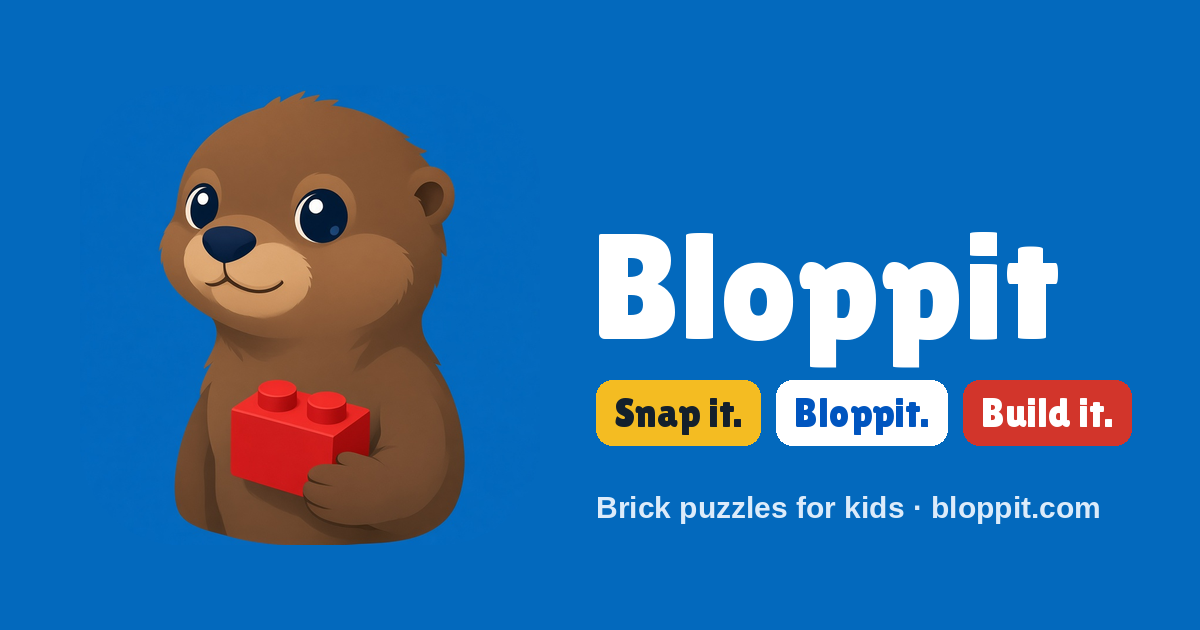
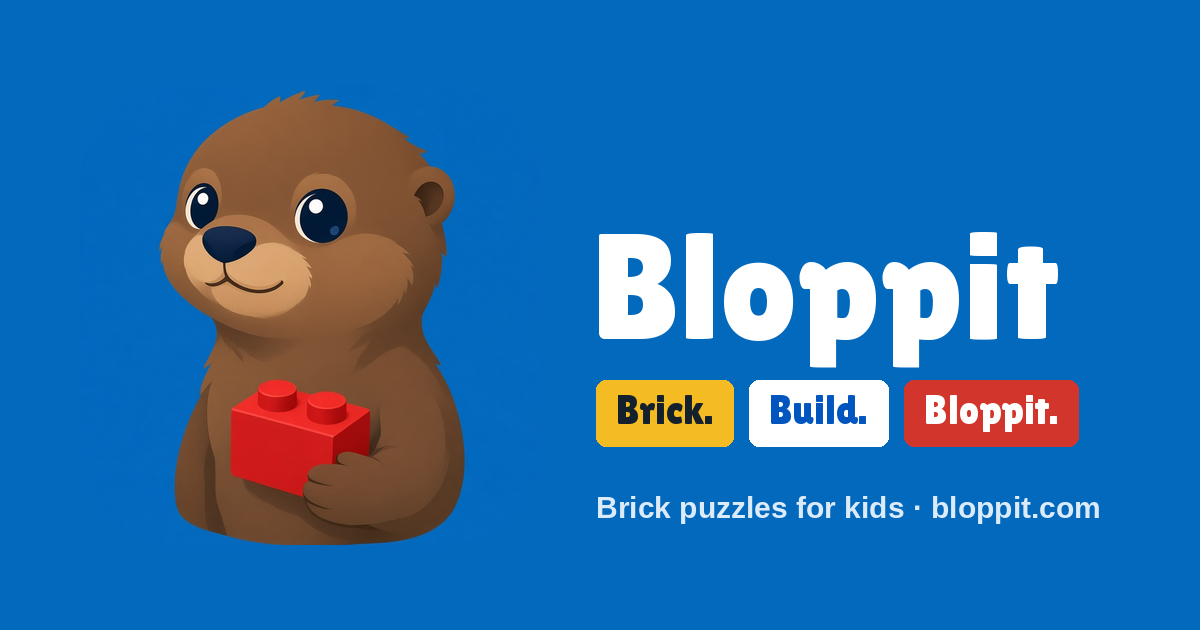
Tagline: Brick. Build. Bloppit. (replaces Snap it. Bloppit. Build it.) (#53)
Moves away from the Bop It-style "___ it" chain. Updated the launch
splash, home hero, page footers, og:image alt text and the share image.

Claude-Session: https://claude.ai/code/session_01HWJYgNWpWx8FiHmAEirTnK

Changed region(s): [[0.4933, 0.6032, 0.9558, 0.7238]]

diff --git a/public/index.html b/public/index.html
@@ -20,7 +20,7 @@
 <meta property="og:image" content="https://bloppit.com/og-image.png">
 <meta property="og:image:width" content="1200">
 <meta property="og:image:height" content="630">
-<meta property="og:image:alt" content="Bloppit: Snap it. Bloppit. Build it.">
+<meta property="og:image:alt" content="Bloppit: Brick. Build. Bloppit.">
 <meta property="og:locale" content="en_US">
 <meta name="twitter:card" content="summary_large_image">
 <meta name="twitter:title" content="Bloppit: Brick Puzzle Game">
@@ -227,7 +227,7 @@ footer{border-top:2px solid var(--ink);background:var(--paper)}
 <div class="splash" id="splash" aria-hidden="true">
   <span class="sp-head"><i class="sp-face"></i></span>
   <div class="sp-word">Bloppit</div>
-  <div class="sp-tag"><span>Snap it.</span><span>Bloppit.</span><span>Build it.</span></div>
+  <div class="sp-tag"><span>Brick.</span><span>Build.</span><span>Bloppit.</span></div>
 </div>
 <script>
 (function(){ var s=document.getElementById('splash'), h=document.documentElement;
@@ -262,7 +262,7 @@ footer{border-top:2px solid var(--ink);background:var(--paper)}
     <div class="hero-text">
       <span class="pill">Free · No ads · No account needed</span>
       <h1>Build it.<br>Grow your <span class="accent">world.</span></h1>
-      <div class="tagline" aria-label="Snap it. Bloppit. Build it."><span>Snap it.</span><span>Bloppit.</span><span>Build it.</span></div>
+      <div class="tagline" aria-label="Brick. Build. Bloppit."><span>Brick.</span><span>Build.</span><span>Bloppit.</span></div>
       <p>A calm brick puzzle game for enthusiastic brick builders. Finish a model in minutes, scored on how cleanly you build. Every build you finish grows your own island.</p>
       <div class="actions">
         <a class="btn primary" href="/build/">Play now</a>

diff --git a/public/activity/index.html b/public/activity/index.html
@@ -116,7 +116,7 @@
 <footer>
   <div class="wrap foot">
     <span class="name">Bloppit</span>
-    <span>Snap it. Bloppit. Build it.</span>
+    <span>Brick. Build. Bloppit.</span>
     <span class="legal">© 2026 Bloppit · An independent project, not affiliated with any toy brick brand. · <a href="/privacy/">Privacy</a></span>
     <nav class="social" aria-label="Bloppit on social media"><span>Follow Bloppit</span><a href="https://www.tiktok.com/@playbloppit" rel="me noopener" target="_blank" aria-label="Bloppit on TikTok (@playbloppit)">TikTok</a><a href="https://www.instagram.com/playbloppit/" rel="me noopener" target="_blank" aria-label="Bloppit on Instagram (@playbloppit)">Instagram</a><a href="https://www.youtube.com/@bloppit" rel="me noopener" target="_blank" aria-label="Bloppit on YouTube (@bloppit)">YouTube</a><a href="https://x.com/playbloppit" rel="me noopener" target="_blank" aria-label="Bloppit on X (@playbloppit)">X</a><a href="https://www.facebook.com/playbloppit" rel="me noopener" target="_blank" aria-label="Bloppit on Facebook (playbloppit)">Facebook</a></nav>
   </div>

diff --git a/public/faq/index.html b/public/faq/index.html
@@ -132,7 +132,7 @@
 <footer>
   <div class="wrap foot">
     <span class="name">Bloppit</span>
-    <span>Snap it. Bloppit. Build it.</span>
+    <span>Brick. Build. Bloppit.</span>
     <span class="legal">© 2026 Bloppit · An independent project, not affiliated with any toy brick brand. · <a href="/privacy/">Privacy</a></span>
     <nav class="social" aria-label="Bloppit on social media"><span>Follow Bloppit</span><a href="https://www.tiktok.com/@playbloppit" rel="me noopener" target="_blank" aria-label="Bloppit on TikTok (@playbloppit)">TikTok</a><a href="https://www.instagram.com/playbloppit/" rel="me noopener" target="_blank" aria-label="Bloppit on Instagram (@playbloppit)">Instagram</a><a href="https://www.youtube.com/@bloppit" rel="me noopener" target="_blank" aria-label="Bloppit on YouTube (@bloppit)">YouTube</a><a href="https://x.com/playbloppit" rel="me noopener" target="_blank" aria-label="Bloppit on X (@playbloppit)">X</a><a href="https://www.facebook.com/playbloppit" rel="me noopener" target="_blank" aria-label="Bloppit on Facebook (playbloppit)">Facebook</a></nav>
   </div>

diff --git a/public/about/index.html b/public/about/index.html
@@ -89,7 +89,7 @@
 <footer>
   <div class="wrap foot">
     <span class="name">Bloppit</span>
-    <span>Snap it. Bloppit. Build it.</span>
+    <span>Brick. Build. Bloppit.</span>
     <span class="legal">© 2026 Bloppit · An independent project, not affiliated with any toy brick brand. · <a href="/privacy/">Privacy</a></span>
     <nav class="social" aria-label="Bloppit on social media"><span>Follow Bloppit</span><a href="https://www.tiktok.com/@playbloppit" rel="me noopener" target="_blank" aria-label="Bloppit on TikTok (@playbloppit)">TikTok</a><a href="https://www.instagram.com/playbloppit/" rel="me noopener" target="_blank" aria-label="Bloppit on Instagram (@playbloppit)">Instagram</a><a href="https://www.youtube.com/@bloppit" rel="me noopener" target="_blank" aria-label="Bloppit on YouTube (@bloppit)">YouTube</a><a href="https://x.com/playbloppit" rel="me noopener" target="_blank" aria-label="Bloppit on X (@playbloppit)">X</a><a href="https://www.facebook.com/playbloppit" rel="me noopener" target="_blank" aria-label="Bloppit on Facebook (playbloppit)">Facebook</a></nav>
   </div>

diff --git a/public/how-it-works/index.html b/public/how-it-works/index.html
@@ -92,7 +92,7 @@
 <footer>
   <div class="wrap foot">
     <span class="name">Bloppit</span>
-    <span>Snap it. Bloppit. Build it.</span>
+    <span>Brick. Build. Bloppit.</span>
     <span class="legal">© 2026 Bloppit · An independent project, not affiliated with any toy brick brand. · <a href="/privacy/">Privacy</a></span>
     <nav class="social" aria-label="Bloppit on social media"><span>Follow Bloppit</span><a href="https://www.tiktok.com/@playbloppit" rel="me noopener" target="_blank" aria-label="Bloppit on TikTok (@playbloppit)">TikTok</a><a href="https://www.instagram.com/playbloppit/" rel="me noopener" target="_blank" aria-label="Bloppit on Instagram (@playbloppit)">Instagram</a><a href="https://www.youtube.com/@bloppit" rel="me noopener" target="_blank" aria-label="Bloppit on YouTube (@bloppit)">YouTube</a><a href="https://x.com/playbloppit" rel="me noopener" target="_blank" aria-label="Bloppit on X (@playbloppit)">X</a><a href="https://www.facebook.com/playbloppit" rel="me noopener" target="_blank" aria-label="Bloppit on Facebook (playbloppit)">Facebook</a></nav>
   </div>

diff --git a/public/build/index.html b/public/build/index.html
@@ -17,7 +17,7 @@
 <meta property="og:image" content="https://bloppit.com/og-image.png">
 <meta property="og:image:width" content="1200">
 <meta property="og:image:height" content="630">
-<meta property="og:image:alt" content="Bloppit: Snap it. Bloppit. Build it.">
+<meta property="og:image:alt" content="Bloppit: Brick. Build. Bloppit.">
 <meta property="og:locale" content="en_US">
 <meta name="twitter:card" content="summary_large_image">
 <meta name="twitter:title" content="Bloppit: Brick Puzzle Game">
@@ -77,7 +77,7 @@
 <div class="splash" id="splash" aria-hidden="true">
   <span class="sp-head"><i class="sp-face"></i></span>
   <div class="sp-word">Bloppit</div>
-  <div class="sp-tag"><span>Snap it.</span><span>Bloppit.</span><span>Build it.</span></div>
+  <div class="sp-tag"><span>Brick.</span><span>Build.</span><span>Bloppit.</span></div>
 </div>
 <script>
 // Launch screen: once per visit, on the website and in the app (not again after switching player).

diff --git a/README.md b/README.md
@@ -54,7 +54,7 @@ Formerly called Building Blox; the browser save keys still use the old `building
   `#together`, `#photos`, `#build`, `#booklet`) so the browser's Back button steps back through Bloppit (`navNote()`).
 - **Share links** are `bloppit.com/join/CODE`: `netlify.toml` sends them to `/build/?code=CODE`, which opens the room
   (5 characters) or challenge (6 characters) straight away. The older `/build/?room=CODE` and `?ch=CODE` still work.
-- The brand (Bloppit the otter, catchphrase "Snap it. Bloppit. Build it.", colours) is on the
+- The brand (Bloppit the otter, catchphrase "Brick. Build. Bloppit.", colours) is on the
   "Bloppit brand & landing page" design canvas in Claude.
 - `netlify/functions/room/` is the Play together room server: a Netlify Function at `/api/room`
   that keeps each room in Netlify Blobs (store `building-blox-rooms`). Game rules are in `logic.mjs`.
